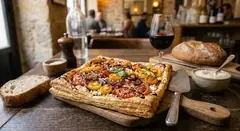
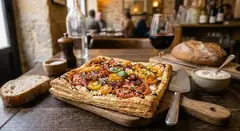
Visuels nets embarqués pour 8 plats de plus (tartes, tartiflette, tofu, tortilla, truite, wraps)
Claude-Session: https://claude.ai/code/session_01KJRpnDzwMopP4vpWCMV1Hz

diff --git a/app/src/lib/bundled.ts b/app/src/lib/bundled.ts
@@ -11,7 +11,7 @@ export const BUNDLED_DISHES: Record<string, { asset: number; mini: number; versi
   "05f09489-fd5e-4a22-ac3c-944d1966a8c4": { asset: require("../../assets/plats/05f09489-fd5e-4a22-ac3c-944d1966a8c4.webp"), mini: require("../../assets/plats-mini/05f09489-fd5e-4a22-ac3c-944d1966a8c4.webp"), version: "2026-11-03T09:35:05.719+00:00" },
   "07a82ac8-76c8-4dd4-88e4-df5a13df5c01": { asset: require("../../assets/plats/07a82ac8-76c8-4dd4-88e4-df5a13df5c01.webp"), mini: require("../../assets/plats-mini/07a82ac8-76c8-4dd4-88e4-df5a13df5c01.webp"), version: "2026-11-03T08:56:27.499+00:00" },
   "0a514704-dac2-495c-be6c-a80717864067": { asset: require("../../assets/plats/0a514704-dac2-495c-be6c-a80717864067.webp"), mini: require("../../assets/plats-mini/0a514704-dac2-495c-be6c-a80717864067.webp"), version: "2026-10-31T20:03:04.285+00:00" },
-  "0a6ccf8c-cede-482a-9a82-41be03cec8e9": { asset: require("../../assets/plats/0a6ccf8c-cede-482a-9a82-41be03cec8e9.webp"), mini: require("../../assets/plats-mini/0a6ccf8c-cede-482a-9a82-41be03cec8e9.webp"), version: "2026-11-03T13:44:07.836+00:00" },
+  "0a6ccf8c-cede-482a-9a82-41be03cec8e9": { asset: require("../../assets/plats/0a6ccf8c-cede-482a-9a82-41be03cec8e9.webp"), mini: require("../../assets/plats-mini/0a6ccf8c-cede-482a-9a82-41be03cec8e9.webp"), version: "2026-11-03T14:38:46.325+00:00" },
   "0b0a82f4-38bd-44b1-89f0-6dc71c47b126": { asset: require("../../assets/plats/0b0a82f4-38bd-44b1-89f0-6dc71c47b126.webp"), mini: require("../../assets/plats-mini/0b0a82f4-38bd-44b1-89f0-6dc71c47b126.webp"), version: "2026-11-03T09:35:10.642+00:00" },
   "0ba2d402-2702-412e-8676-9668e72a0f88": { asset: require("../../assets/plats/0ba2d402-2702-412e-8676-9668e72a0f88.webp"), mini: require("../../assets/plats-mini/0ba2d402-2702-412e-8676-9668e72a0f88.webp"), version: "2026-11-01T18:15:38.438+00:00" },
   "0cfb977d-70da-4ee6-80c5-67673453553f": { asset: require("../../assets/plats/0cfb977d-70da-4ee6-80c5-67673453553f.webp"), mini: require("../../assets/plats-mini/0cfb977d-70da-4ee6-80c5-67673453553f.webp"), version: "2026-10-31T20:03:04.887+00:00" },
@@ -28,7 +28,7 @@ export const BUNDLED_DISHES: Record<string, { asset: number; mini: number; versi
   "1ea663c5-ce6c-4a31-afb5-845f0b811482": { asset: require("../../assets/plats/1ea663c5-ce6c-4a31-afb5-845f0b811482.webp"), mini: require("../../assets/plats-mini/1ea663c5-ce6c-4a31-afb5-845f0b811482.webp"), version: "2026-11-03T08:56:26.007+00:00" },
   "1ee45f47-879a-42c7-bbdc-2939fc4b3366": { asset: require("../../assets/plats/1ee45f47-879a-42c7-bbdc-2939fc4b3366.webp"), mini: require("../../assets/plats-mini/1ee45f47-879a-42c7-bbdc-2939fc4b3366.webp"), version: "2026-11-03T08:56:21.744+00:00" },
   "23d51e76-052a-40cb-9081-026252597da8": { asset: require("../../assets/plats/23d51e76-052a-40cb-9081-026252597da8.webp"), mini: require("../../assets/plats-mini/23d51e76-052a-40cb-9081-026252597da8.webp"), version: "2026-11-01T18:15:33.481+00:00" },
-  "29dfaa95-3b49-47a9-9e91-b3a0c4a4622b": { asset: require("../../assets/plats/29dfaa95-3b49-47a9-9e91-b3a0c4a4622b.webp"), mini: require("../../assets/plats-mini/29dfaa95-3b49-47a9-9e91-b3a0c4a4622b.webp"), version: "2026-11-03T13:44:07.067+00:00" },
+  "29dfaa95-3b49-47a9-9e91-b3a0c4a4622b": { asset: require("../../assets/plats/29dfaa95-3b49-47a9-9e91-b3a0c4a4622b.webp"), mini: require("../../assets/plats-mini/29dfaa95-3b49-47a9-9e91-b3a0c4a4622b.webp"), version: "2026-11-03T14:39:20.836+00:00" },
   "2ef094fd-4280-4285-a229-94c8b1900d4f": { asset: require("../../assets/plats/2ef094fd-4280-4285-a229-94c8b1900d4f.webp"), mini: require("../../assets/plats-mini/2ef094fd-4280-4285-a229-94c8b1900d4f.webp"), version: "2026-11-03T09:35:08.898+00:00" },
   "2f36860a-eb2a-4f52-9f7c-2c9fff830310": { asset: require("../../assets/plats/2f36860a-eb2a-4f52-9f7c-2c9fff830310.webp"), mini: require("../../assets/plats-mini/2f36860a-eb2a-4f52-9f7c-2c9fff830310.webp"), version: "2026-11-01T18:15:32.647+00:00" },
   "2f8a1b52-c1ba-4c29-90b2-64f77ce5918c": { asset: require("../../assets/plats/2f8a1b52-c1ba-4c29-90b2-64f77ce5918c.webp"), mini: require("../../assets/plats-mini/2f8a1b52-c1ba-4c29-90b2-64f77ce5918c.webp"), version: "2026-11-03T08:56:18.424+00:00" },
@@ -39,7 +39,7 @@ export const BUNDLED_DISHES: Record<string, { asset: number; mini: number; versi
   "33843e60-d242-48b3-8bee-f4441f3fade5": { asset: require("../../assets/plats/33843e60-d242-48b3-8bee-f4441f3fade5.webp"), mini: require("../../assets/plats-mini/33843e60-d242-48b3-8bee-f4441f3fade5.webp"), version: "2026-11-03T14:36:53.716+00:00" },
   "364253a4-bbc1-4bf6-8146-3ca2d607d3b8": { asset: require("../../assets/plats/364253a4-bbc1-4bf6-8146-3ca2d607d3b8.webp"), mini: require("../../assets/plats-mini/364253a4-bbc1-4bf6-8146-3ca2d607d3b8.webp"), version: "2026-11-03T13:44:03.586+00:00" },
   "3ae55c10-0cba-4e81-a92e-a91216167024": { asset: require("../../assets/plats/3ae55c10-0cba-4e81-a92e-a91216167024.webp"), mini: require("../../assets/plats-mini/3ae55c10-0cba-4e81-a92e-a91216167024.webp"), version: "2026-11-01T18:15:28.643+00:00" },
-  "3cf515ab-f434-4d60-bd32-460584069c1a": { asset: require("../../assets/plats/3cf515ab-f434-4d60-bd32-460584069c1a.webp"), mini: require("../../assets/plats-mini/3cf515ab-f434-4d60-bd32-460584069c1a.webp"), version: "2026-11-03T13:44:08.203+00:00" },
+  "3cf515ab-f434-4d60-bd32-460584069c1a": { asset: require("../../assets/plats/3cf515ab-f434-4d60-bd32-460584069c1a.webp"), mini: require("../../assets/plats-mini/3cf515ab-f434-4d60-bd32-460584069c1a.webp"), version: "2026-11-03T14:38:45.761+00:00" },
   "3f074014-6616-47e9-b5cb-16761fd51326": { asset: require("../../assets/plats/3f074014-6616-47e9-b5cb-16761fd51326.webp"), mini: require("../../assets/plats-mini/3f074014-6616-47e9-b5cb-16761fd51326.webp"), version: "2026-11-03T14:36:52.624+00:00" },
   "3f324081-bfa3-4945-9495-d014315a1131": { asset: require("../../assets/plats/3f324081-bfa3-4945-9495-d014315a1131.webp"), mini: require("../../assets/plats-mini/3f324081-bfa3-4945-9495-d014315a1131.webp"), version: "2026-10-31T20:24:03.315+00:00" },
   "3f55d2b3-1cf1-4112-a694-228b5b7444a0": { asset: require("../../assets/plats/3f55d2b3-1cf1-4112-a694-228b5b7444a0.webp"), mini: require("../../assets/plats-mini/3f55d2b3-1cf1-4112-a694-228b5b7444a0.webp"), version: "2026-11-03T13:44:03.968+00:00" },
@@ -49,7 +49,7 @@ export const BUNDLED_DISHES: Record<string, { asset: number; mini: number; versi
   "4a8f8572-00c2-4c7f-88a2-31a96a7cd1eb": { asset: require("../../assets/plats/4a8f8572-00c2-4c7f-88a2-31a96a7cd1eb.webp"), mini: require("../../assets/plats-mini/4a8f8572-00c2-4c7f-88a2-31a96a7cd1eb.webp"), version: "2026-11-01T18:15:37.505+00:00" },
   "4b68d6a5-a826-4e2b-ac10-88732d2b4f99": { asset: require("../../assets/plats/4b68d6a5-a826-4e2b-ac10-88732d2b4f99.webp"), mini: require("../../assets/plats-mini/4b68d6a5-a826-4e2b-ac10-88732d2b4f99.webp"), version: "2026-11-01T18:15:34.039+00:00" },
   "4fcf38ea-9f30-4601-b2e5-b860f5ead4d9": { asset: require("../../assets/plats/4fcf38ea-9f30-4601-b2e5-b860f5ead4d9.webp"), mini: require("../../assets/plats-mini/4fcf38ea-9f30-4601-b2e5-b860f5ead4d9.webp"), version: "2026-11-01T18:15:36.817+00:00" },
-  "5075f323-7e07-48f2-a862-198b8b6feae2": { asset: require("../../assets/plats/5075f323-7e07-48f2-a862-198b8b6feae2.webp"), mini: require("../../assets/plats-mini/5075f323-7e07-48f2-a862-198b8b6feae2.webp"), version: "2026-11-03T13:44:08.538+00:00" },
+  "5075f323-7e07-48f2-a862-198b8b6feae2": { asset: require("../../assets/plats/5075f323-7e07-48f2-a862-198b8b6feae2.webp"), mini: require("../../assets/plats-mini/5075f323-7e07-48f2-a862-198b8b6feae2.webp"), version: "2026-11-03T14:38:45.3+00:00" },
   "530d6ff5-7adb-4484-a25f-d2ea6db2e13a": { asset: require("../../assets/plats/530d6ff5-7adb-4484-a25f-d2ea6db2e13a.webp"), mini: require("../../assets/plats-mini/530d6ff5-7adb-4484-a25f-d2ea6db2e13a.webp"), version: "2026-11-01T18:15:39.076+00:00" },
   "57c3d13a-0487-456a-8b5a-f3cdb372ac10": { asset: require("../../assets/plats/57c3d13a-0487-456a-8b5a-f3cdb372ac10.webp"), mini: require("../../assets/plats-mini/57c3d13a-0487-456a-8b5a-f3cdb372ac10.webp"), version: "2026-11-03T09:35:02.833+00:00" },
   "598c0eab-9a6e-4fe1-91ef-7a5cf972d9d8": { asset: require("../../assets/plats/598c0eab-9a6e-4fe1-91ef-7a5cf972d9d8.webp"), mini: require("../../assets/plats-mini/598c0eab-9a6e-4fe1-91ef-7a5cf972d9d8.webp"), version: "2026-11-03T08:56:21.315+00:00" },
@@ -65,7 +65,7 @@ export const BUNDLED_DISHES: Record<string, { asset: number; mini: number; versi
   "6537b4e4-cc8d-4fce-8873-f77945213e4a": { asset: require("../../assets/plats/6537b4e4-cc8d-4fce-8873-f77945213e4a.webp"), mini: require("../../assets/plats-mini/6537b4e4-cc8d-4fce-8873-f77945213e4a.webp"), version: "2026-11-03T08:56:22.517+00:00" },
   "660799b1-7056-4180-a89b-3b56fd81f409": { asset: require("../../assets/plats/660799b1-7056-4180-a89b-3b56fd81f409.webp"), mini: require("../../assets/plats-mini/660799b1-7056-4180-a89b-3b56fd81f409.webp"), version: "2026-11-01T00:30:15.617+00:00" },
   "6749ba0b-b150-4bce-a9a8-a194c88387b7": { asset: require("../../assets/plats/6749ba0b-b150-4bce-a9a8-a194c88387b7.webp"), mini: require("../../assets/plats-mini/6749ba0b-b150-4bce-a9a8-a194c88387b7.webp"), version: "2026-11-03T09:35:05.332+00:00" },
-  "68e73911-7f03-4529-9525-b934e0401d98": { asset: require("../../assets/plats/68e73911-7f03-4529-9525-b934e0401d98.webp"), mini: require("../../assets/plats-mini/68e73911-7f03-4529-9525-b934e0401d98.webp"), version: "2026-11-03T13:44:06.68+00:00" },
+  "68e73911-7f03-4529-9525-b934e0401d98": { asset: require("../../assets/plats/68e73911-7f03-4529-9525-b934e0401d98.webp"), mini: require("../../assets/plats-mini/68e73911-7f03-4529-9525-b934e0401d98.webp"), version: "2026-11-03T14:39:21.247+00:00" },
   "68e9d17d-771b-4acd-96db-74bd4d50ccb1": { asset: require("../../assets/plats/68e9d17d-771b-4acd-96db-74bd4d50ccb1.webp"), mini: require("../../assets/plats-mini/68e9d17d-771b-4acd-96db-74bd4d50ccb1.webp"), version: "2026-11-03T09:35:03.297+00:00" },
   "6a3e3d28-5ca5-429b-a37d-1687903443f8": { asset: require("../../assets/plats/6a3e3d28-5ca5-429b-a37d-1687903443f8.webp"), mini: require("../../assets/plats-mini/6a3e3d28-5ca5-429b-a37d-1687903443f8.webp"), version: "2026-10-31T20:25:02.524+00:00" },
   "6ac8b247-4868-4ed2-a062-a8be78fd130f": { asset: require("../../assets/plats/6ac8b247-4868-4ed2-a062-a8be78fd130f.webp"), mini: require("../../assets/plats-mini/6ac8b247-4868-4ed2-a062-a8be78fd130f.webp"), version: "2026-10-31T20:25:03.277+00:00" },
@@ -120,13 +120,13 @@ export const BUNDLED_DISHES: Record<string, { asset: number; mini: number; versi
   "cb587618-7f7b-40d1-b43a-1a18ab58d261": { asset: require("../../assets/plats/cb587618-7f7b-40d1-b43a-1a18ab58d261.webp"), mini: require("../../assets/plats-mini/cb587618-7f7b-40d1-b43a-1a18ab58d261.webp"), version: "2026-11-03T09:35:07.802+00:00" },
   "cc2fc12e-851d-4ae2-b44d-f8412b637c25": { asset: require("../../assets/plats/cc2fc12e-851d-4ae2-b44d-f8412b637c25.webp"), mini: require("../../assets/plats-mini/cc2fc12e-851d-4ae2-b44d-f8412b637c25.webp"), version: "2026-11-03T09:35:07.422+00:00" },
   "d1acdd1d-485c-4483-bdfa-cd8d3fc0c3af": { asset: require("../../assets/plats/d1acdd1d-485c-4483-bdfa-cd8d3fc0c3af.webp"), mini: require("../../assets/plats-mini/d1acdd1d-485c-4483-bdfa-cd8d3fc0c3af.webp"), version: "2026-11-01T01:45:21.554+00:00" },
-  "d1f45630-288f-4f57-b893-acc87325bcad": { asset: require("../../assets/plats/d1f45630-288f-4f57-b893-acc87325bcad.webp"), mini: require("../../assets/plats-mini/d1f45630-288f-4f57-b893-acc87325bcad.webp"), version: "2026-11-03T13:44:05.837+00:00" },
+  "d1f45630-288f-4f57-b893-acc87325bcad": { asset: require("../../assets/plats/d1f45630-288f-4f57-b893-acc87325bcad.webp"), mini: require("../../assets/plats-mini/d1f45630-288f-4f57-b893-acc87325bcad.webp"), version: "2026-11-03T14:39:21.651+00:00" },
   "d278b648-c58d-49f0-83f7-d4fedf9cd35b": { asset: require("../../assets/plats/d278b648-c58d-49f0-83f7-d4fedf9cd35b.webp"), mini: require("../../assets/plats-mini/d278b648-c58d-49f0-83f7-d4fedf9cd35b.webp"), version: "2026-11-03T09:35:06.456+00:00" },
   "d35bdc94-cc2e-4d2d-bf36-ef4e1cdafc1b": { asset: require("../../assets/plats/d35bdc94-cc2e-4d2d-bf36-ef4e1cdafc1b.webp"), mini: require("../../assets/plats-mini/d35bdc94-cc2e-4d2d-bf36-ef4e1cdafc1b.webp"), version: "2026-11-03T14:36:14.787+00:00" },
   "d3cdb413-3438-4b06-87dd-29dfd472013a": { asset: require("../../assets/plats/d3cdb413-3438-4b06-87dd-29dfd472013a.webp"), mini: require("../../assets/plats-mini/d3cdb413-3438-4b06-87dd-29dfd472013a.webp"), version: "2026-11-03T08:56:23.863+00:00" },
   "d417aa21-ec33-4331-a972-fed767cd4baf": { asset: require("../../assets/plats/d417aa21-ec33-4331-a972-fed767cd4baf.webp"), mini: require("../../assets/plats-mini/d417aa21-ec33-4331-a972-fed767cd4baf.webp"), version: "2026-11-03T13:57:24.182+00:00" },
   "d7000743-162c-4d32-bb02-f417e2926184": { asset: require("../../assets/plats/d7000743-162c-4d32-bb02-f417e2926184.webp"), mini: require("../../assets/plats-mini/d7000743-162c-4d32-bb02-f417e2926184.webp"), version: "2026-10-31T20:29:02.745+00:00" },
-  "d877cffd-6f30-4510-8059-6ef1116d92c6": { asset: require("../../assets/plats/d877cffd-6f30-4510-8059-6ef1116d92c6.webp"), mini: require("../../assets/plats-mini/d877cffd-6f30-4510-8059-6ef1116d92c6.webp"), version: "2026-11-03T13:44:08.897+00:00" },
+  "d877cffd-6f30-4510-8059-6ef1116d92c6": { asset: require("../../assets/plats/d877cffd-6f30-4510-8059-6ef1116d92c6.webp"), mini: require("../../assets/plats-mini/d877cffd-6f30-4510-8059-6ef1116d92c6.webp"), version: "2026-11-03T14:38:44.87+00:00" },
   "d96c0c38-7ab6-4a8d-9951-4a878a245ab5": { asset: require("../../assets/plats/d96c0c38-7ab6-4a8d-9951-4a878a245ab5.webp"), mini: require("../../assets/plats-mini/d96c0c38-7ab6-4a8d-9951-4a878a245ab5.webp"), version: "2026-10-31T20:29:03.419+00:00" },
   "de468bf2-48b4-4925-b37f-bf01a05b1e48": { asset: require("../../assets/plats/de468bf2-48b4-4925-b37f-bf01a05b1e48.webp"), mini: require("../../assets/plats-mini/de468bf2-48b4-4925-b37f-bf01a05b1e48.webp"), version: "2026-11-03T13:43:59.674+00:00" },
   "deb6c045-6881-4a22-9d70-2f5810a66576": { asset: require("../../assets/plats/deb6c045-6881-4a22-9d70-2f5810a66576.webp"), mini: require("../../assets/plats-mini/deb6c045-6881-4a22-9d70-2f5810a66576.webp"), version: "2026-11-01T18:15:32.252+00:00" },
@@ -142,7 +142,7 @@ export const BUNDLED_DISHES: Record<string, { asset: number; mini: number; versi
   "eb68c904-8707-45c1-a156-d1a6423b0c6d": { asset: require("../../assets/plats/eb68c904-8707-45c1-a156-d1a6423b0c6d.webp"), mini: require("../../assets/plats-mini/eb68c904-8707-45c1-a156-d1a6423b0c6d.webp"), version: "2026-10-31T20:31:01.42+00:00" },
   "f0e88576-72df-4534-9c90-6cd3c12b521f": { asset: require("../../assets/plats/f0e88576-72df-4534-9c90-6cd3c12b521f.webp"), mini: require("../../assets/plats-mini/f0e88576-72df-4534-9c90-6cd3c12b521f.webp"), version: "2026-11-03T14:36:15.609+00:00" },
   "f1ddaa09-eb20-43fc-912b-5a7632bcd554": { asset: require("../../assets/plats/f1ddaa09-eb20-43fc-912b-5a7632bcd554.webp"), mini: require("../../assets/plats-mini/f1ddaa09-eb20-43fc-912b-5a7632bcd554.webp"), version: "2026-11-03T09:35:04.222+00:00" },
-  "f2fd98b9-6ec7-4833-ba48-aaa19deb464d": { asset: require("../../assets/plats/f2fd98b9-6ec7-4833-ba48-aaa19deb464d.webp"), mini: require("../../assets/plats-mini/f2fd98b9-6ec7-4833-ba48-aaa19deb464d.webp"), version: "2026-11-03T13:44:09.249+00:00" },
+  "f2fd98b9-6ec7-4833-ba48-aaa19deb464d": { asset: require("../../assets/plats/f2fd98b9-6ec7-4833-ba48-aaa19deb464d.webp"), mini: require("../../assets/plats-mini/f2fd98b9-6ec7-4833-ba48-aaa19deb464d.webp"), version: "2026-11-03T14:38:44.333+00:00" },
   "f41286db-6994-47f0-a594-c08af6284729": { asset: require("../../assets/plats/f41286db-6994-47f0-a594-c08af6284729.webp"), mini: require("../../assets/plats-mini/f41286db-6994-47f0-a594-c08af6284729.webp"), version: "2026-10-31T20:31:02.103+00:00" },
   "f6dfc930-f6b9-445a-948f-df6671f751e9": { asset: require("../../assets/plats/f6dfc930-f6b9-445a-948f-df6671f751e9.webp"), mini: require("../../assets/plats-mini/f6dfc930-f6b9-445a-948f-df6671f751e9.webp"), version: "2026-11-01T18:15:36.093+00:00" },
   "f768f0fa-a5b7-412a-85ec-7c7e934fb2f5": { asset: require("../../assets/plats/f768f0fa-a5b7-412a-85ec-7c7e934fb2f5.webp"), mini: require("../../assets/plats-mini/f768f0fa-a5b7-412a-85ec-7c7e934fb2f5.webp"), version: "2026-11-03T09:35:09.623+00:00" },
